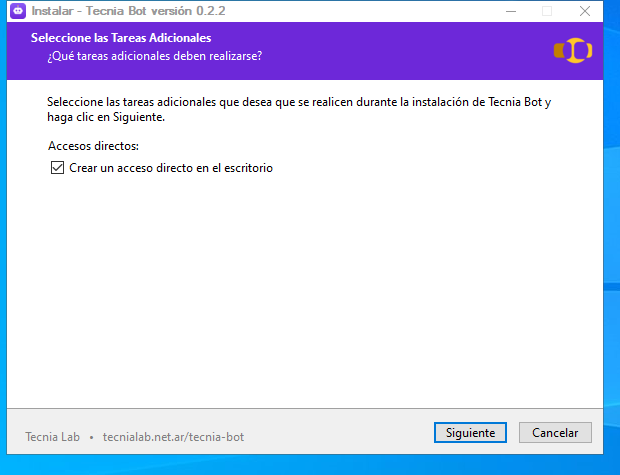
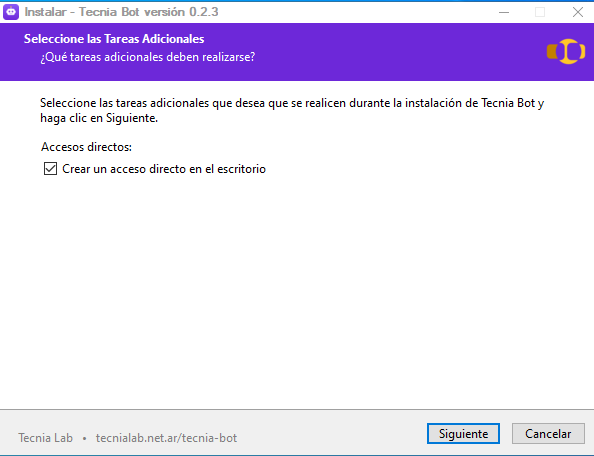
docs(web): completar guía con captura de la pantalla final + asistente limpio

Changed region(s): [[0.0, 0.0, 1.0, 1.0]]

diff --git a/docs/guia-web/README.md b/docs/guia-web/README.md
@@ -53,9 +53,7 @@ Se abre el **instalador de Tecnia Bot**. Hacé **Siguiente → Siguiente → Ins
 
 Al terminar, se abre esta misma web con los **primeros pasos**, y Tecnia Bot te queda en el **menú inicio** y en el **escritorio** (con el ícono del robot 🤖). Abrilo y empezá a preguntarle.
 
-<!-- Nota para quien publica: sumá acá una captura de la pantalla final
-     "¡Tecnia Bot quedó instalado!" (banner violeta) o de Tecnia Bot ya abierto. -->
-> 📸 *(Captura pendiente: pantalla final "¡Tecnia Bot quedó instalado!" o el bot abierto.)*
+![Paso 5 — ¡Tecnia Bot quedó instalado!](img/06-final.png)
 
 ## Un paso más: los drivers de la placa
 